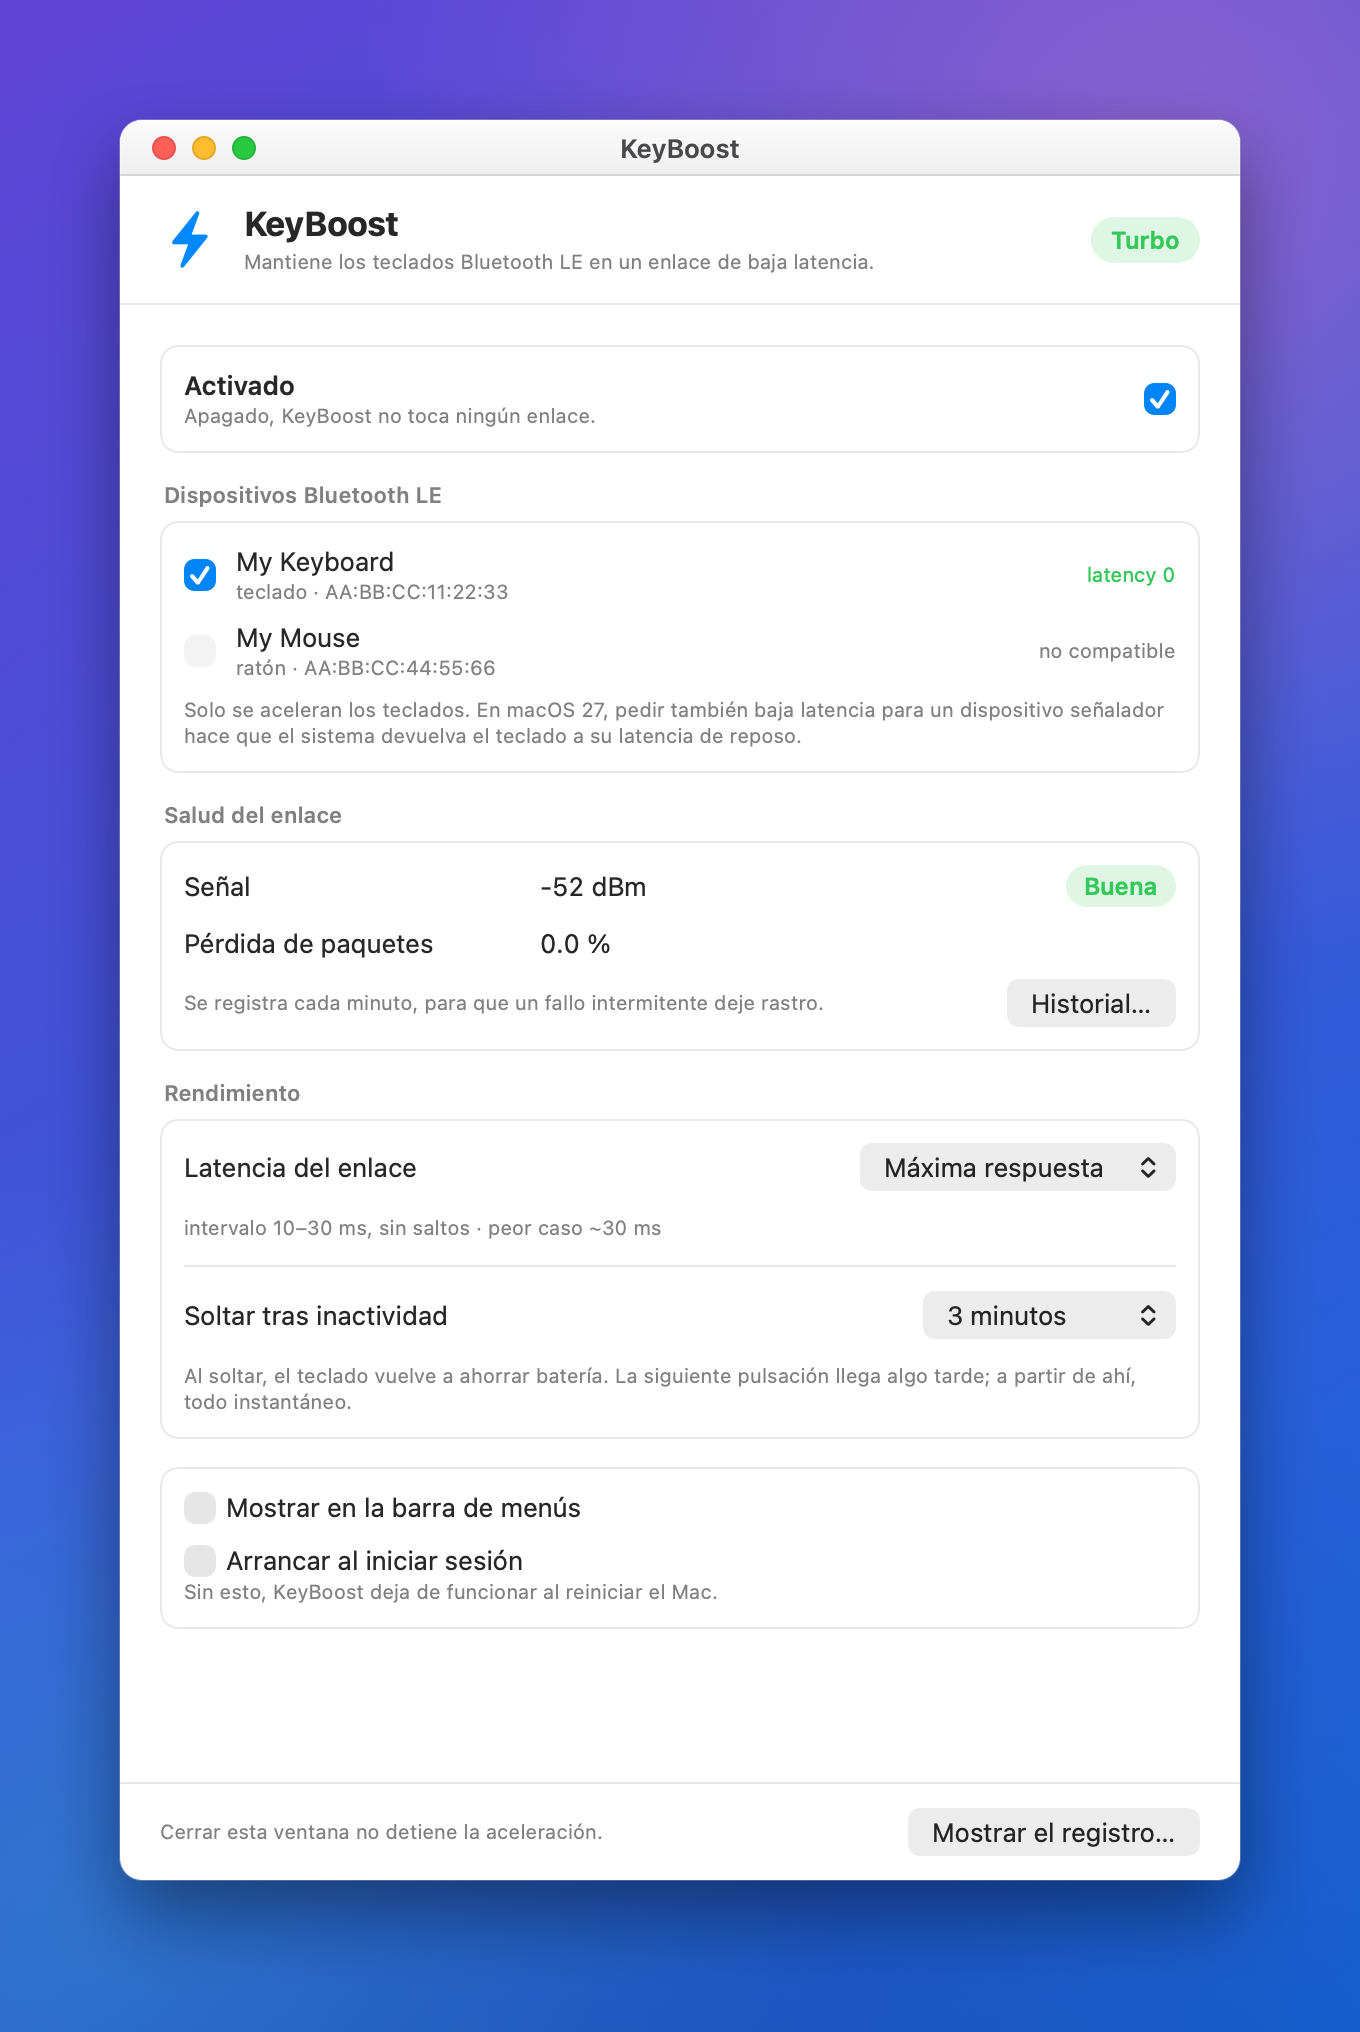
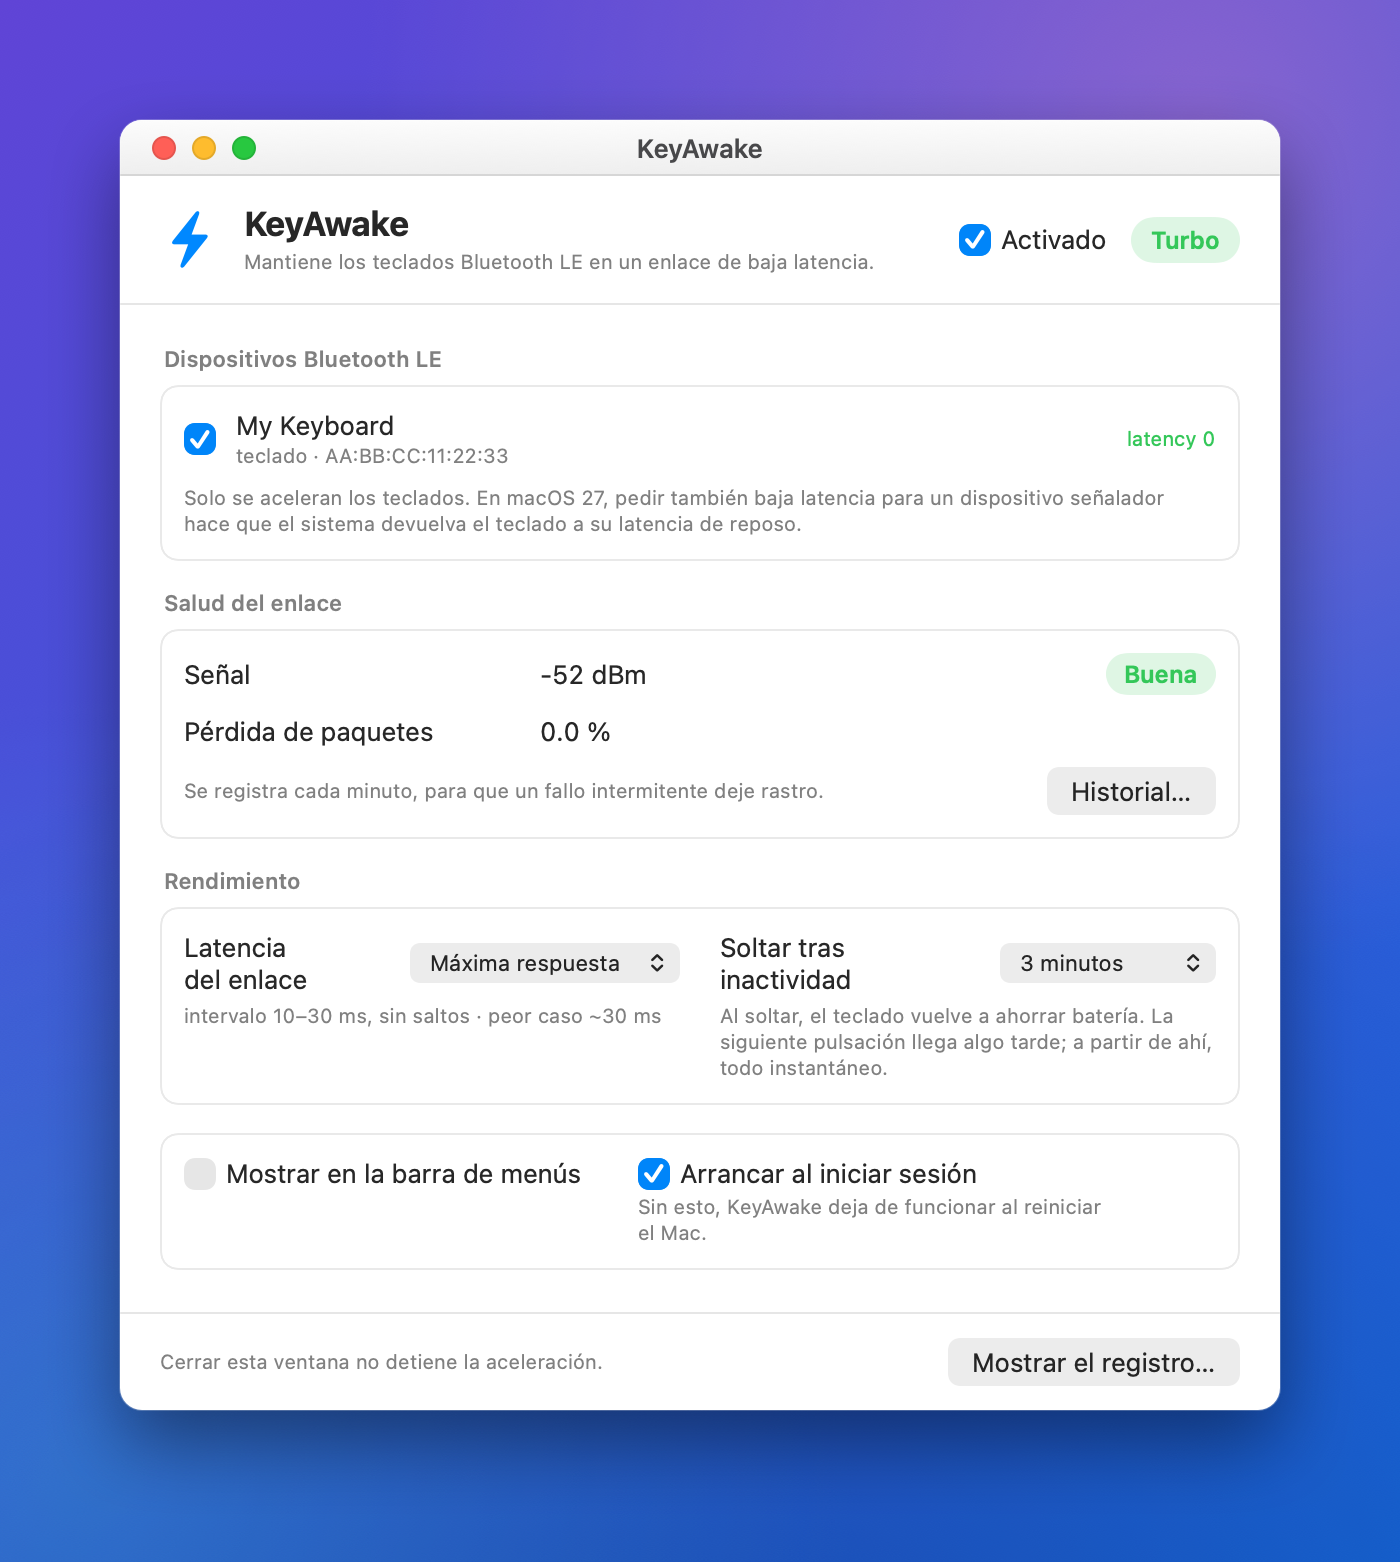
Refresh the screenshots for the new UI and fix the Spanish picker

diff --git a/scripts/make-screenshot.swift b/scripts/make-screenshot.swift
@@ -8,7 +8,7 @@
 import AppKit
 import SwiftUI
 
-let contentSize = NSSize(width: 560, height: 852)
+var contentSize = NSSize(width: 580, height: 852)
 let pad: CGFloat = 60
 let padBottom: CGFloat = 76   // el desenfoque de la sombra cae hacia abajo
 let titleBar: CGFloat = 28
@@ -30,10 +30,37 @@ app.setActivationPolicy(.prohibited)
 let model = Model()
 
 DispatchQueue.main.asyncAfter(deadline: .now() + 1.2) {
+    // Demo data, so the picture does not expose the machine's own keyboard and does not
+    // change with its state. One keyboard, one pointing device, a healthy link, boosting.
+    var demo = Settings()
+    demo.enabled = true
+    demo.showMenuBarIcon = false
+    demo.idleReleaseSeconds = 180
+    demo.latencyLevel = 0
+    demo.boosted = [BoostedDevice(name: "My Keyboard", addresses: ["AA:BB:CC:11:22:33"])]
+    model.settings = demo
+    model.launchAtLogin = true
+    model.status = AgentStatus(
+        bluetooth: .on, active: true, apiAvailable: true,
+        devices: [
+            DeviceStatus(address: "AA:BB:CC:11:22:33", name: "My Keyboard",
+                         kind: .keyboard, present: true, wanted: true, boosted: true),
+            DeviceStatus(address: "AA:BB:CC:44:55:66", name: "My Mouse",
+                         kind: .pointing, present: true, wanted: false, boosted: false),
+        ],
+        rssi: -52, lossPercent: 0, radioCyclesLastHour: 0, updated: Date())
+
+    // The window is as tall as its contents, as in the real app; measuring beats a
+    // hard-coded height that goes stale the moment a section is added.
+    let preview = SettingsView(model: model).previewBody
+    let probe = NSHostingView(rootView: preview.frame(width: contentSize.width))
+    probe.frame = NSRect(x: 0, y: 0, width: contentSize.width, height: 100)
+    probe.layoutSubtreeIfNeeded()
+    contentSize.height = max(SettingsView.minContentHeight, ceil(probe.fittingSize.height))
+
     // 1. The window contents.
     let renderer = ImageRenderer(content:
-        SettingsView(model: model).previewBody
-            .frame(width: contentSize.width, height: contentSize.height))
+        preview.frame(width: contentSize.width, height: contentSize.height))
     renderer.scale = scale
     guard let content = renderer.nsImage else { print("render failed"); exit(1) }
 

diff --git a/Sources/App/SettingsView.swift b/Sources/App/SettingsView.swift
@@ -171,6 +171,9 @@ struct SettingsView: View {
                             }
                             .labelsHidden()
                             .controlSize(.small)
+                            // Without this the longer Spanish value is truncated to
+                            // "Máxima respu…" at the default window width.
+                            .fixedSize(horizontal: true, vertical: false)
                         }
                         if let detail = model.latencyDetail { caption(detail) }
                     }
@@ -187,6 +190,7 @@ struct SettingsView: View {
                             }
                             .labelsHidden()
                             .controlSize(.small)
+                            .fixedSize(horizontal: true, vertical: false)
                         }
                         caption(L("After releasing, the keyboard goes back to saving power. The next "
                                   + "keystroke arrives a little late; everything after it is instant."))
